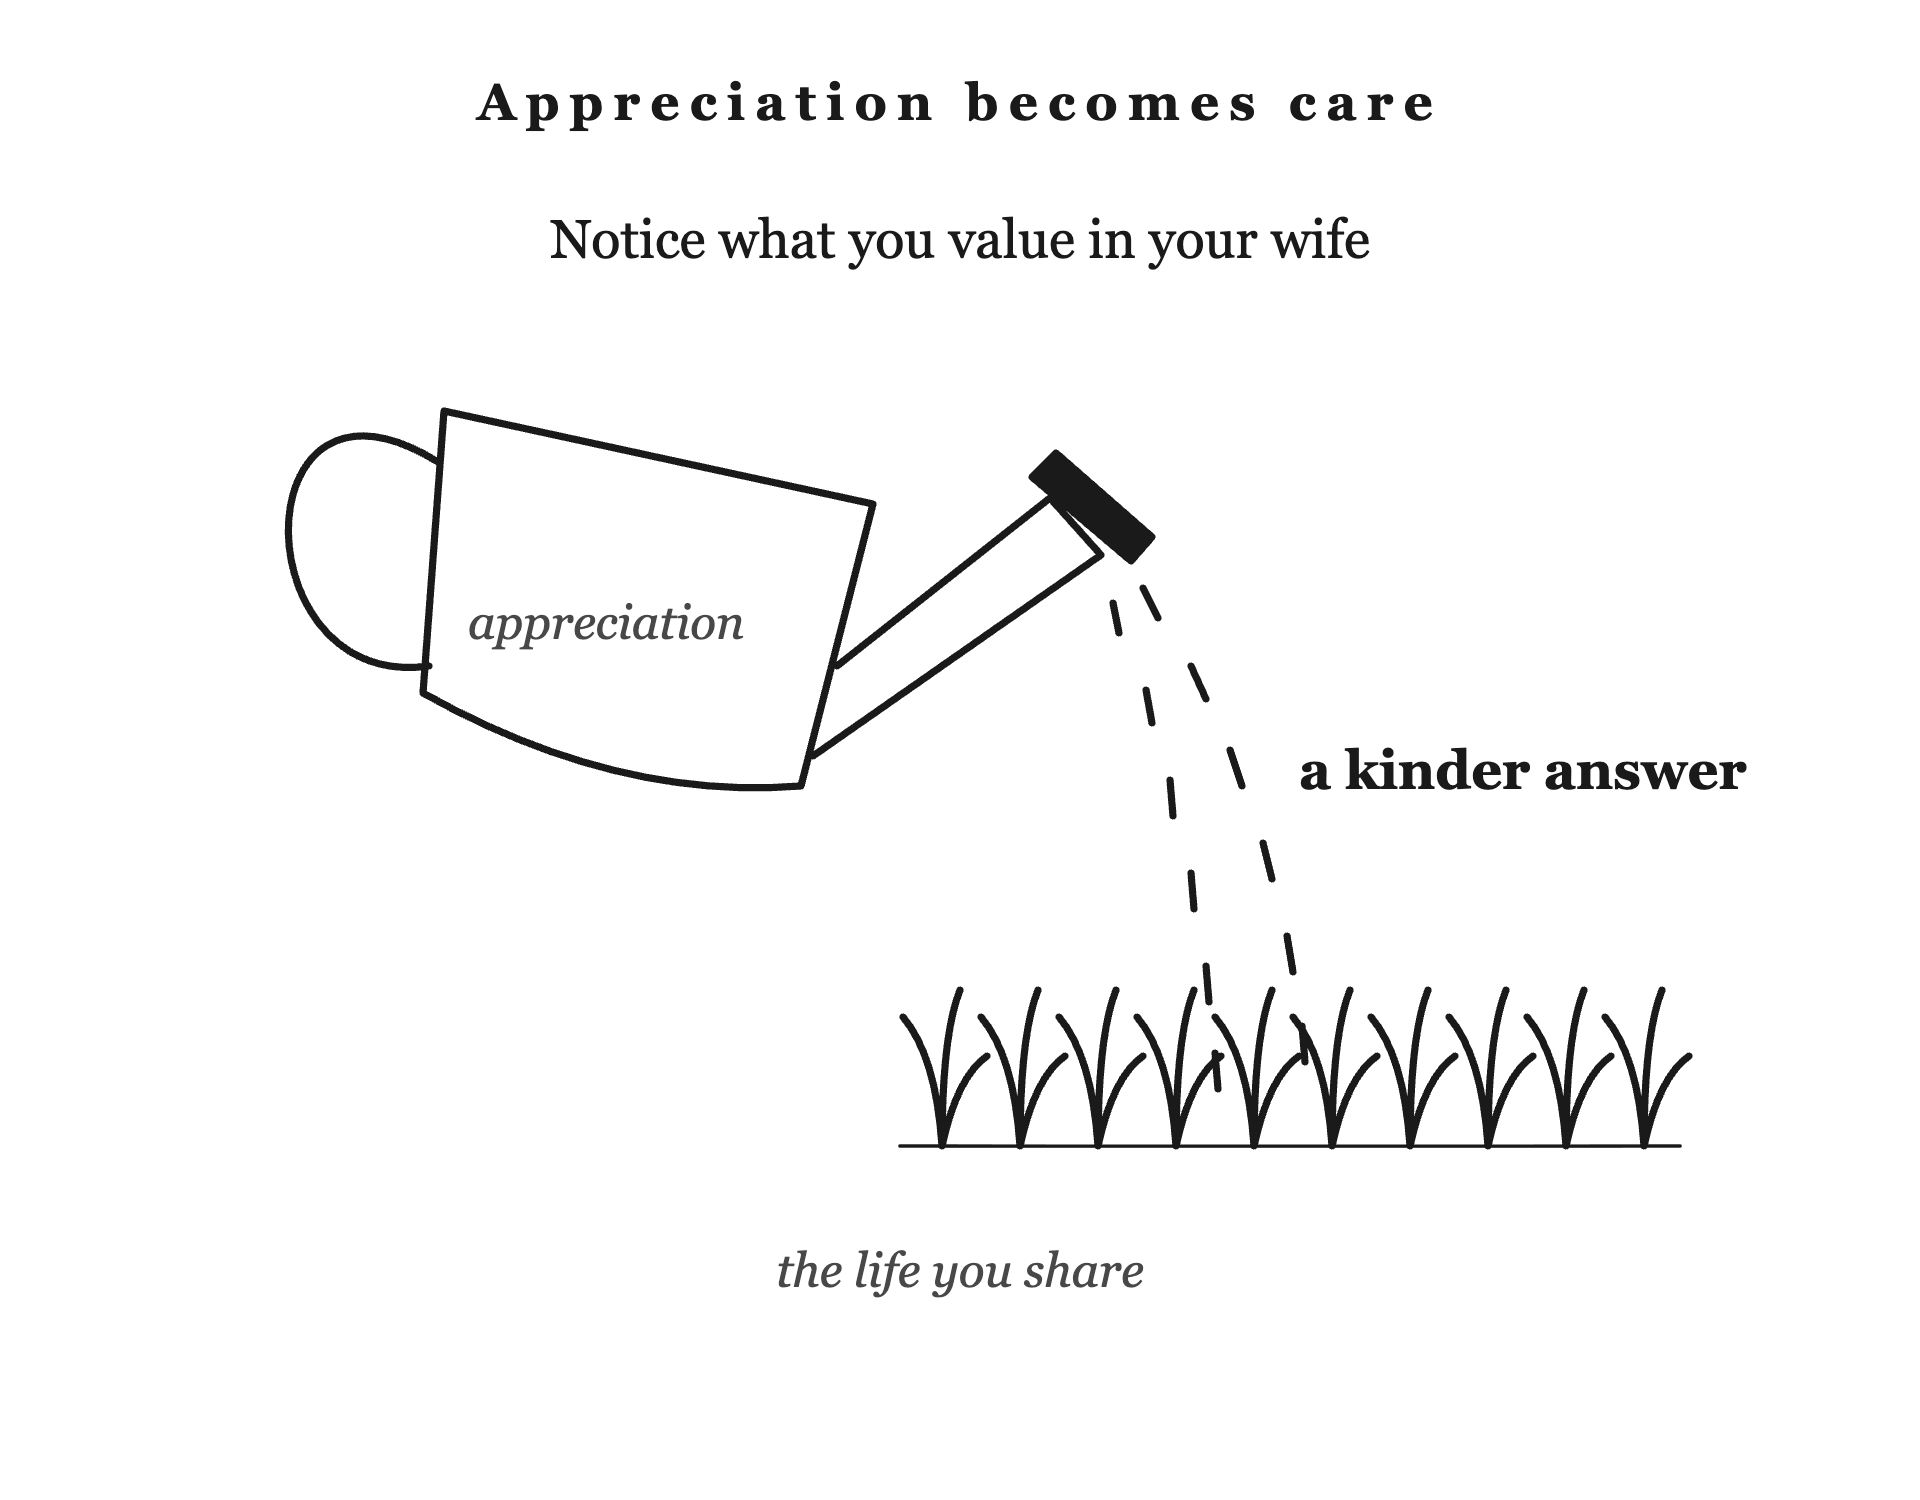
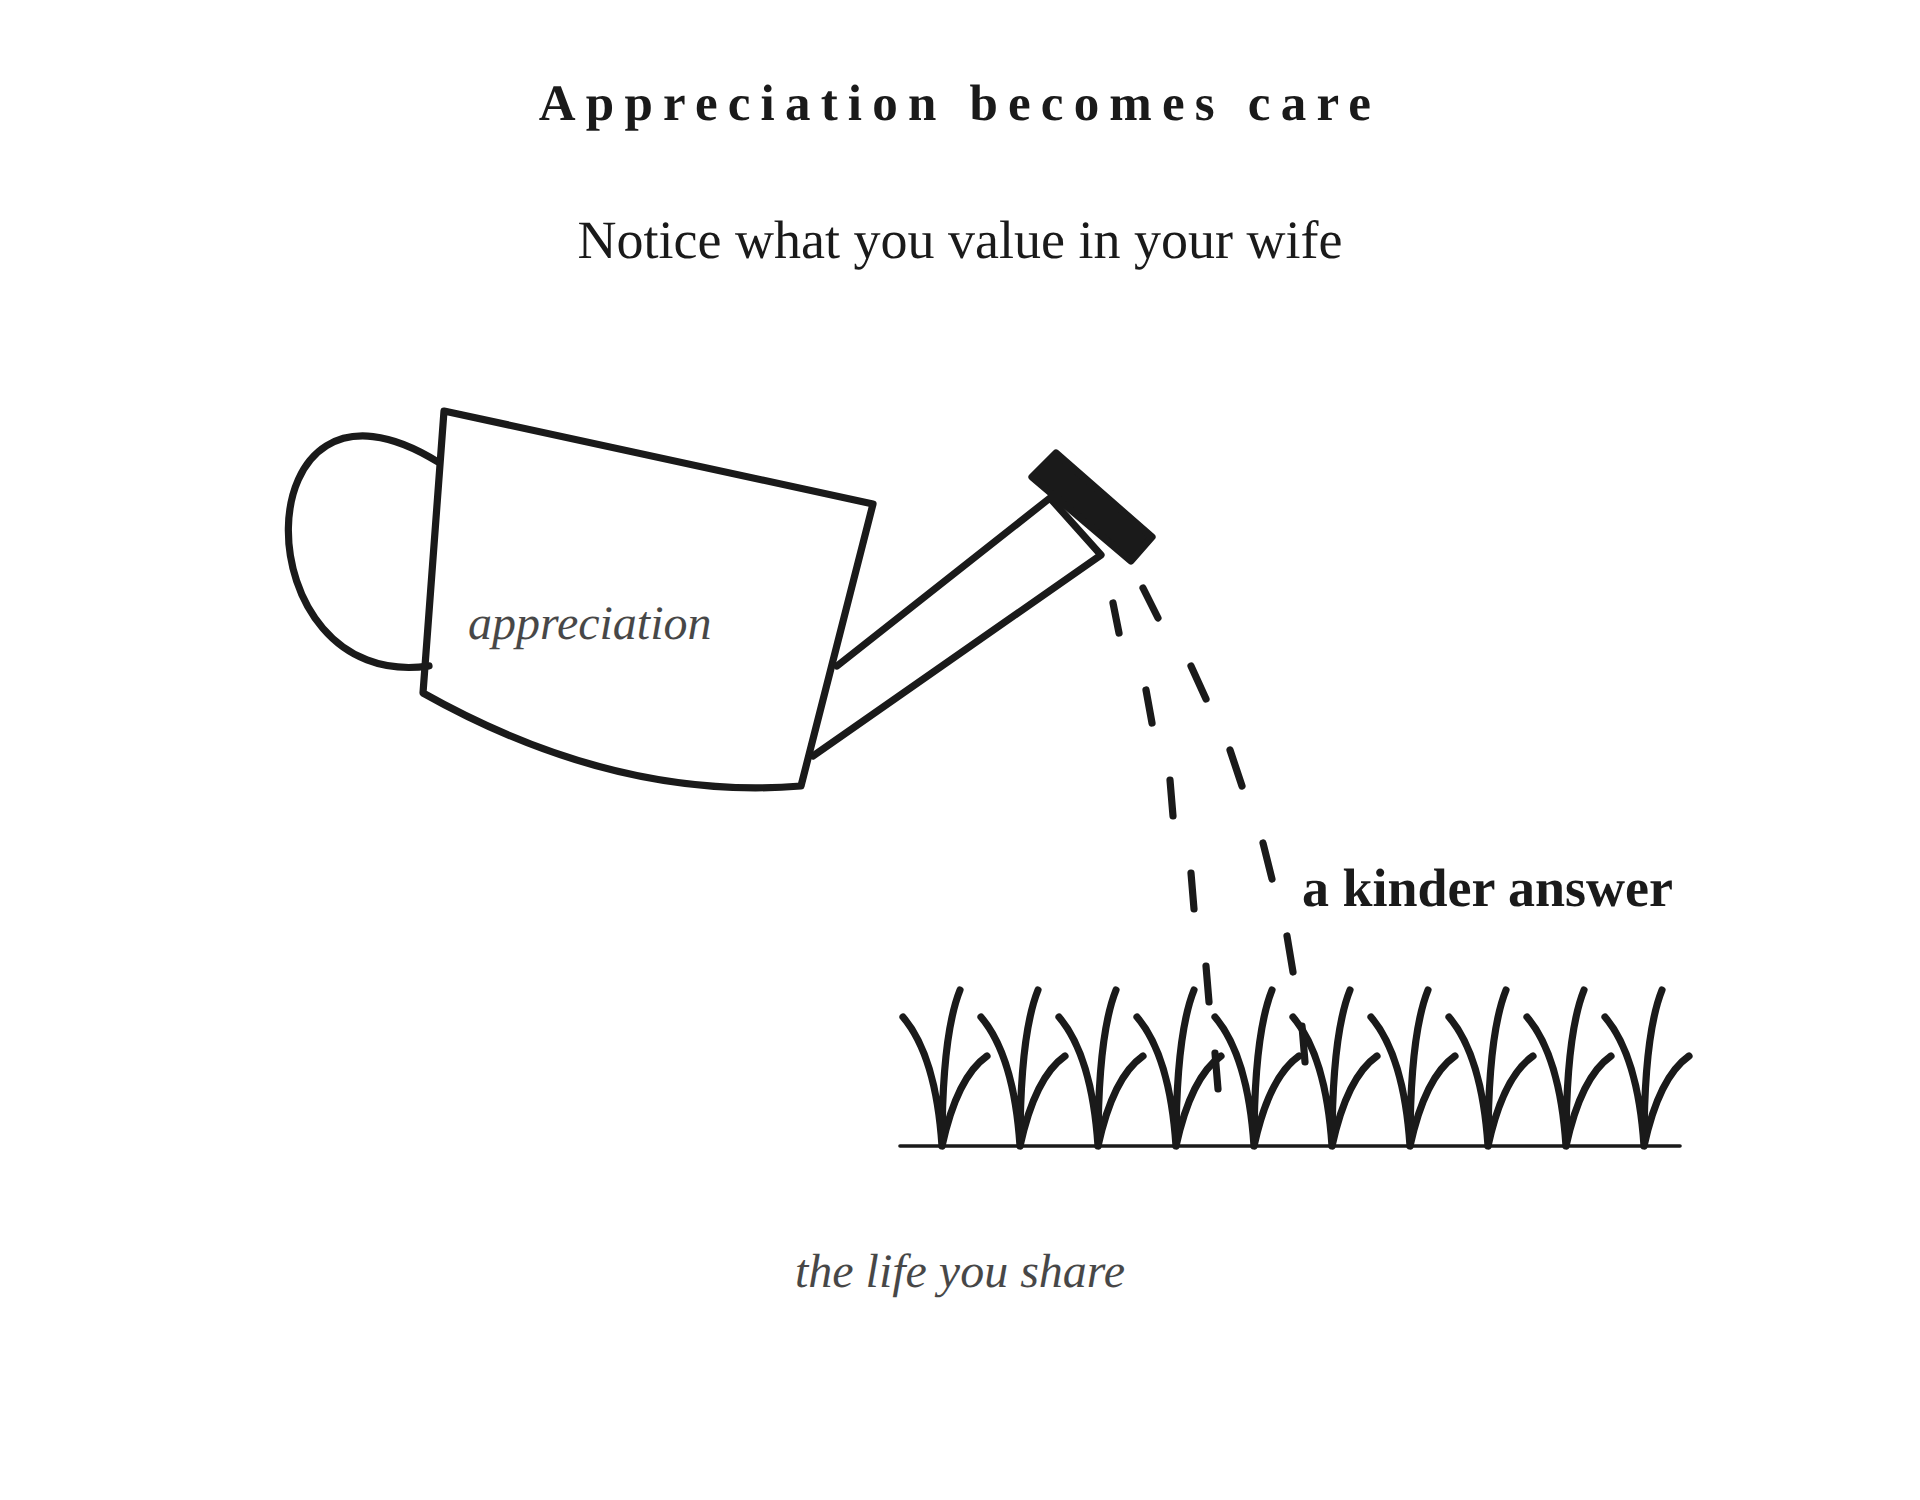
Ch14 plate: move 'a kinder answer' to the foot of the stream; fold #38 into P-005
- runs/ch14/plate.svg: label moved (433,263) -> (434,302). Designer first put it
  at x=438, which failed plate_check geometry MARGIN (right edge 600, limit 596);
  Publisher nudged x to 434. plate_check passes every row.
- plate-brief.md: author addition recorded (the plate should show something
  received; label sits where the water lands).
- plate-read.md: Panel cold read of the revised plate, EDIT (one word, 'your');
  NOT applied - it needs a wider label and so a layout choice for the verdict.
- runs/design/plate-briefs.md: Ch14 entry matches the drawing.
- runs/parked.md: #38 folded into P-005's arcs-complete trigger.

Authority: author, 'Yes, do 1 and 3', 2026-10-03. Nothing landed in books/.

Claude-Session: https://claude.ai/code/session_01SfvagNqXZWqkVRFMFjAkp9

diff --git a/runs/ch14/plate-read.md b/runs/ch14/plate-read.md
@@ -1,21 +1,48 @@
-# Chapter 14 — Standalone plate read
+# Chapter 14: Standalone plate read (current draft)
+
+## 2026-10-03 02:18
+
+The date comes from the session environment. This desk has no shell, so `date '+%Y-%m-%d %H:%M'` did not run and the time of day is unchecked. The Publisher should stamp the time if it matters.
+
+Replaces the previous plate-read.md, which covered the earlier draft.
 
 ## Plate alone: ten-second takeaway
 
-“Noticing what I value in my wife helps me answer her more kindly and care for the life we share.”
+Written from `runs/ch14/pdf/plate.png` alone, before reading anything else:
 
-Recorded from the PNG before reading the distillation, as a married man who has not read the chapter.
+> "If you keep noticing what you value in your wife, it pours out of you as kinder replies, and that is what keeps your shared life growing."
+
+What each piece of text refers to, on a cold read:
+
+- **Title, "Appreciation becomes care":** a claim that one thing turns into another. The drawing shows it as can to water.
+- **Subtitle, "Notice what you value in your wife":** the instruction, the thing he does.
+- **"appreciation" inside the can:** what he holds and carries.
+- **Bold "a kinder answer" by the stream:** names the water in mid-air, the form the appreciation takes as it leaves him. It sits beside the lower part of the stream, above the grass line, not on or under the grass. So it reads as *the pour itself*, not clearly as *what the water becomes where it lands*. That is acceptable: can, then pour, then grass already reads as appreciation, then care, then the shared life, which is what the title says.
+- **Italic "the life you share":** names the grass and ground being watered.
+
+**Received vs. damage avoided:** nothing on the plate is withered, broken or rescued. The grass gets something, and the plate shows giving and growth, not harm prevented. On this axis the plate is right.
+
+**Skeptic, the misreading the drawing invites:** "a kinder answer" does not say whose answer it is. A defensive man can read it as what *he gets back*: notice her good points and she answers you more kindly. That turns the plate into a trade. A second, weaker misreading is that she is the lawn and he is the gardener. The label "the life you share" mostly closes that off, because the grass is the marriage, not her.
 
 ## Comparison with the distillation
 
-**PASS.** The Conversation sentence is: “You practice enough by noticing what you value in your wife and letting that appreciation change how you care for her.” The standalone takeaway conveys that movement from noticing value to changed care. “A kinder answer” makes the change concrete; “the life you share” gives that care a visible recipient. The plate does not name “enough,” but its mechanism survives without the chapter's terminology.
+Conversation sentence: "You practice enough by noticing what you value in your wife and letting that appreciation change how you care for her."
 
-## Ranked findings
+The movement survives cold: noticing, then appreciation, then changed care. "Enough" is not on the plate, and the mechanism holds without it.
 
-1. **The watering relationship is immediately recognizable; no corrective edit required.** The cold reader sees a watering can, water falling from its spout, and grass receiving it. The handle, body, spout, and separated falling marks establish the action without interpretation from the distillation. The last water marks overlap grass blades slightly, but this does not interrupt the read. Persona: standalone reader. Cost: none.
+**Verdict: EDIT (one relabel).** The core takeaway lands. But the distillation says outright that gratitude "asks for no particular response from her," and the one ambiguous label invites exactly the opposite reading, that her kinder answer is the payoff. The middle of the distillation already says whose word it is: "The same trait can get a harsh word or a loving one, and your attention picks the word." The plate should say the same.
 
-2. **A defensive reader could turn care into a promised return, but the drawing does not require that reading.** “If I give her kinder answers, our marriage will grow” is an available transactional interpretation of watering grass. The plate's instruction to notice what he values and its depiction of his own changed answer keep the emphasis on his conduct; there is no pictured reward or required response from her. Persona: skeptic. This is a residual metaphor risk, not a failed takeaway or a required redraw. Cost of explicitly foreclosing it: another qualifier would add reading load to a currently immediate plate.
+## Edit list
+
+1. **Relabel "a kinder answer" to "your kinder word".** Keep the same position, bold weight and size. "Your" makes it his conduct, not her response. "Word" matches the distillation's "your attention picks the word." It also drops "answer," which implies a question or a complaint came first. If the designer wants to keep "answer," then "your kinder answer" is the minimum fix: the "your" is the part that matters.
+
+No other edits. Specifically:
+
+- **Do not move the stream label down to the grass.** It would crowd "the life you share," and naming the pour is the right job for it: the pour is where appreciation becomes care.
+- **Do not relabel the grass "her."** The distillation says "care for her," and the plate's recipient is the shared life. This is a deliberate small drift and it should stay. Making her the lawn is the worse misreading.
 
 ## Scope
 
-Read, in order: `runs/ch14/pdf/plate.png`, then `runs/ch14/distillation.md`. Did not read chapter prose, SVG source, mechanical brief, concepts, previous plate reports, foundation files, or author conversation. This is a standalone plate review, not manuscript QA.
+Read, in order: `runs/ch14/pdf/plate.png` (cold sentence and label reads written first), then `runs/ch14/distillation.md`, then the previous `runs/ch14/plate-read.md`. The Write tool requires reading a file before overwriting it, so the old report was read only after the cold read was fixed. The old report reached PASS on the earlier draft and named the same transactional risk without asking for an edit. This read treats that risk as worth one word.
+
+Did not read: chapter prose, SVG source, brief, concepts, foundation files (`00-premise.md`, `02-audience.md`, `03-outline.md`), or author conversation. This is a standalone plate read, not manuscript QA.

diff --git a/runs/ch14/plate-notes.md b/runs/ch14/plate-notes.md
@@ -254,3 +254,29 @@ runs/ch14/plate.svg
 ```
 
 All Publisher check rows pass for the current redraw, including rendered ink margins and current raster identity. Together with the completed Designer format inspection and cold Panel PASS, the plate is ready for the author's verdict. No remaining rendering or independent-read blocker is recorded.
+
+
+## Label placement revision, 2026-10-03 02:13
+
+One change, made on the author's approval recorded in `plate-brief.md` (2026-10-03 addition): "a kinder answer" should sit where the water lands. Moved that one `<text class="lbl">` from **x=433, y=263** (beside the middle of the stream) to **x=438, y=302** (beside the last drops on the right, just before they enter the grass). Copy, title, drawing, canvas (640x500), class and text count are unchanged; the SVG diff is one line.
+
+Why this position and not the suggested x~452, y~318. The checker's Georgia metrics give the label a width of 162. At x=452 it would run to 614, inside the right margin band (the original redraw hit the same MARGIN failure at x=443). The furthest right it can start is x=438, ending at 600. At that x, the drop at x 429-431, y 312-324 is only 7px to the left, so the baseline cannot go below y=302 and still keep 12px clear of it. At y=302 the label is about 12px from the nearest drops (424,293 to the left; 429,312 below) and 28px above the grass tips at y=330. A left-of-stream position (x=223, y=318, directly above the grass) was also rendered and rejected: it sat under the can and read as a label for the can or the empty left, not for the water.
+
+Rendered `pdf/plate.png` and looked at it. The label reads as naming the lower stream where it reaches the grass. Limitation: the local renderer substitutes a narrower serif for Georgia (rendered label about 124 wide, not 162). On a device with Georgia, the right edge lands on x=600, the edge of the margin band and not inside it.
+
+Format checklist for this revision:
+
+- [x] Centred texts unchanged on x=320; the moved label stays left-anchored through the `lbl` class.
+- [x] Drawing block unchanged and still centred.
+- [x] Canvas 640 wide, 500 high.
+- [x] Caption count unchanged: two italic lines.
+- [x] No bare text-anchor attribute.
+- [x] Explicit fills unchanged.
+- [x] Title is still the Mechanism, word for word; copy unchanged.
+- [x] Rendered and inspected (fallback-font caveat above).
+
+The counted check was not run as authority here. The Publisher runs `plate_check.py` independently. `runs/design/plate-briefs.md` was not edited, because this commission limits writes to `runs/ch14/`. Its Chapter 14 visual explanation may still say the label sits beside the falling water; if it needs to say "where the water lands", the Publisher should update it.
+
+### 2026-10-03 02:15 Publisher nudge
+
+The independent plate_check run failed geometry MARGIN for "a kinder answer" at x=438 (right edge 600; the house limit is 596). Moved x 438 -> 434, y unchanged at 302. All rows then pass; nothing else changed.

diff --git a/runs/design/plate-briefs.md b/runs/design/plate-briefs.md
@@ -168,7 +168,7 @@ The historical predecessor is `runs/design/2026-09-20-plate-names-and-visual-sum
 
 **Intent:** Notice what you value in your wife and let appreciation become an ordinary act of care for the life you share.
 
-**Visual explanation:** A large tilted watering can holds “appreciation.” Its loop handle, curved body, long spout and sprinkler head make the object recognizable. Discrete drops descend from the spout into one grass patch. “A kinder answer” sits beside the falling drops, naming the act of care while it happens. The grass is labeled “the life you share.” The image draws appreciation becoming care through contact between water and grass. There is no before/after growth comparison or returning arrow; the shared-life label names the recipient without depicting the wife as a plant to improve.
+**Visual explanation:** A large tilted watering can holds “appreciation.” Its loop handle, curved body, long spout and sprinkler head make the object recognizable. Discrete drops descend from the spout into one grass patch. “A kinder answer” sits at the foot of the stream, just above the grass where the water lands, naming what the water becomes. The grass is labeled “the life you share.” The image draws appreciation becoming care through contact between water and grass. There is no before/after growth comparison or returning arrow; the shared-life label names the recipient without depicting the wife as a plant to improve.
 
 **Validation question:** Within ten seconds, can a stranger recognize a watering can watering grass, identify the kinder answer as the water, and understand appreciation for his wife becoming care for their shared life? Does the image imply she owes a response?
 

diff --git a/runs/ch14/plate-brief.md b/runs/ch14/plate-brief.md
@@ -1,6 +1,6 @@
 # Plate brief, Chapter 14
 
-Generated by scripts/plate_brief.py on 2026-09-30 23:15 from runs/ch14/distillation.md and runs/ch14/refined.md. Nothing here is
+Generated by scripts/plate_brief.py on 2026-10-03 02:11 from runs/ch14/distillation.md and runs/ch14/refined.md. Nothing here is
 invented; a plate may use these words and the chapter's, and nothing else.
 The Author additions section records words the author has put his name to:
 his own, or copy from elsewhere he endorsed, each dated and attributed.
@@ -14,7 +14,7 @@ plate_check.py's grounded row reads these additions as permitted plate copy.
 
 ## The chapter's own recurring words
 
-something, wife, doesn't, enough, enjoy, attention, author, needs, don't, life, appreciation, sentence, she's, remains, comparison, gratitude, supplied, read, chapter, love, need, keep, want, you've, yourself, value, marriage, practice, feel, words
+wife, enough, don't, words, sentence, paragraph, author, need, life, seneca, comparison, something, practice, appreciation, line, enjoy, attention, marcus, sentences, close, chapter, doesn't, like, saying, read, added, remains, love, needs, she's
 
 ## The standard
 
@@ -25,3 +25,4 @@ failed. The drawing carries the argument; captions name what is drawn.
 ## Author additions
 
 - 2026-09-30 23:15: current version is awful. It's unrecognizable.
+- 2026-10-03 02:11: 2026-10-03, approving the Publisher's recommendation ("Yes, do 1 and 3"): the Chapter 14 plate should show something received, not damage avoided, and its label 'a kinder answer' should sit where the water lands.

diff --git a/runs/parked.md b/runs/parked.md
@@ -272,7 +272,18 @@ spec), #9 (before a second book), #12 (Ch26 research; the audiobook scene to Ch2
 *Repair*, was Ch17), #23 (his call, after `/gw-qa`), #29, #32 (recount: 136 of
 140 citations open), #33, #35, #39 (P-005).
 
-**Held:** #24 and #26, now P-006. **Pending his answer:** #38.
+**Held:** #24 and #26, now P-006.
+
+**#38 folded into P-005, 2026-10-03.** The author approved the Publisher's
+recommendation: *"Yes, do 1 and 3."* Both whole-set plate findings (Ch7 and Ch11
+converged on one composition; no plate in the set draws warmth) now share P-005's
+trigger, **once the book's arcs are complete**, instead of "the first Part III
+chapter plate," which had already fired. Evidence read 2026-10-03: the Ch12 plate
+draws neglect (an empty box) and the Ch13 plate is a two-path decision diagram,
+so neither broke the damage-avoided register; the Ch14 watering can is the first
+plate in the set that draws something given. Ch12 and Ch13 stay as landed. The one
+near-term action, a label move on the Ch14 plate and a brief note that it should
+show something received, is recorded in `runs/ch14/plate-brief.md`.
 
 **Correction to P-004, 2026-10-03.** Its trigger reads "the Chapter 23
 interview." The 2026-10-02 renumber made Chapter 23 *Repair Quickly, Love
